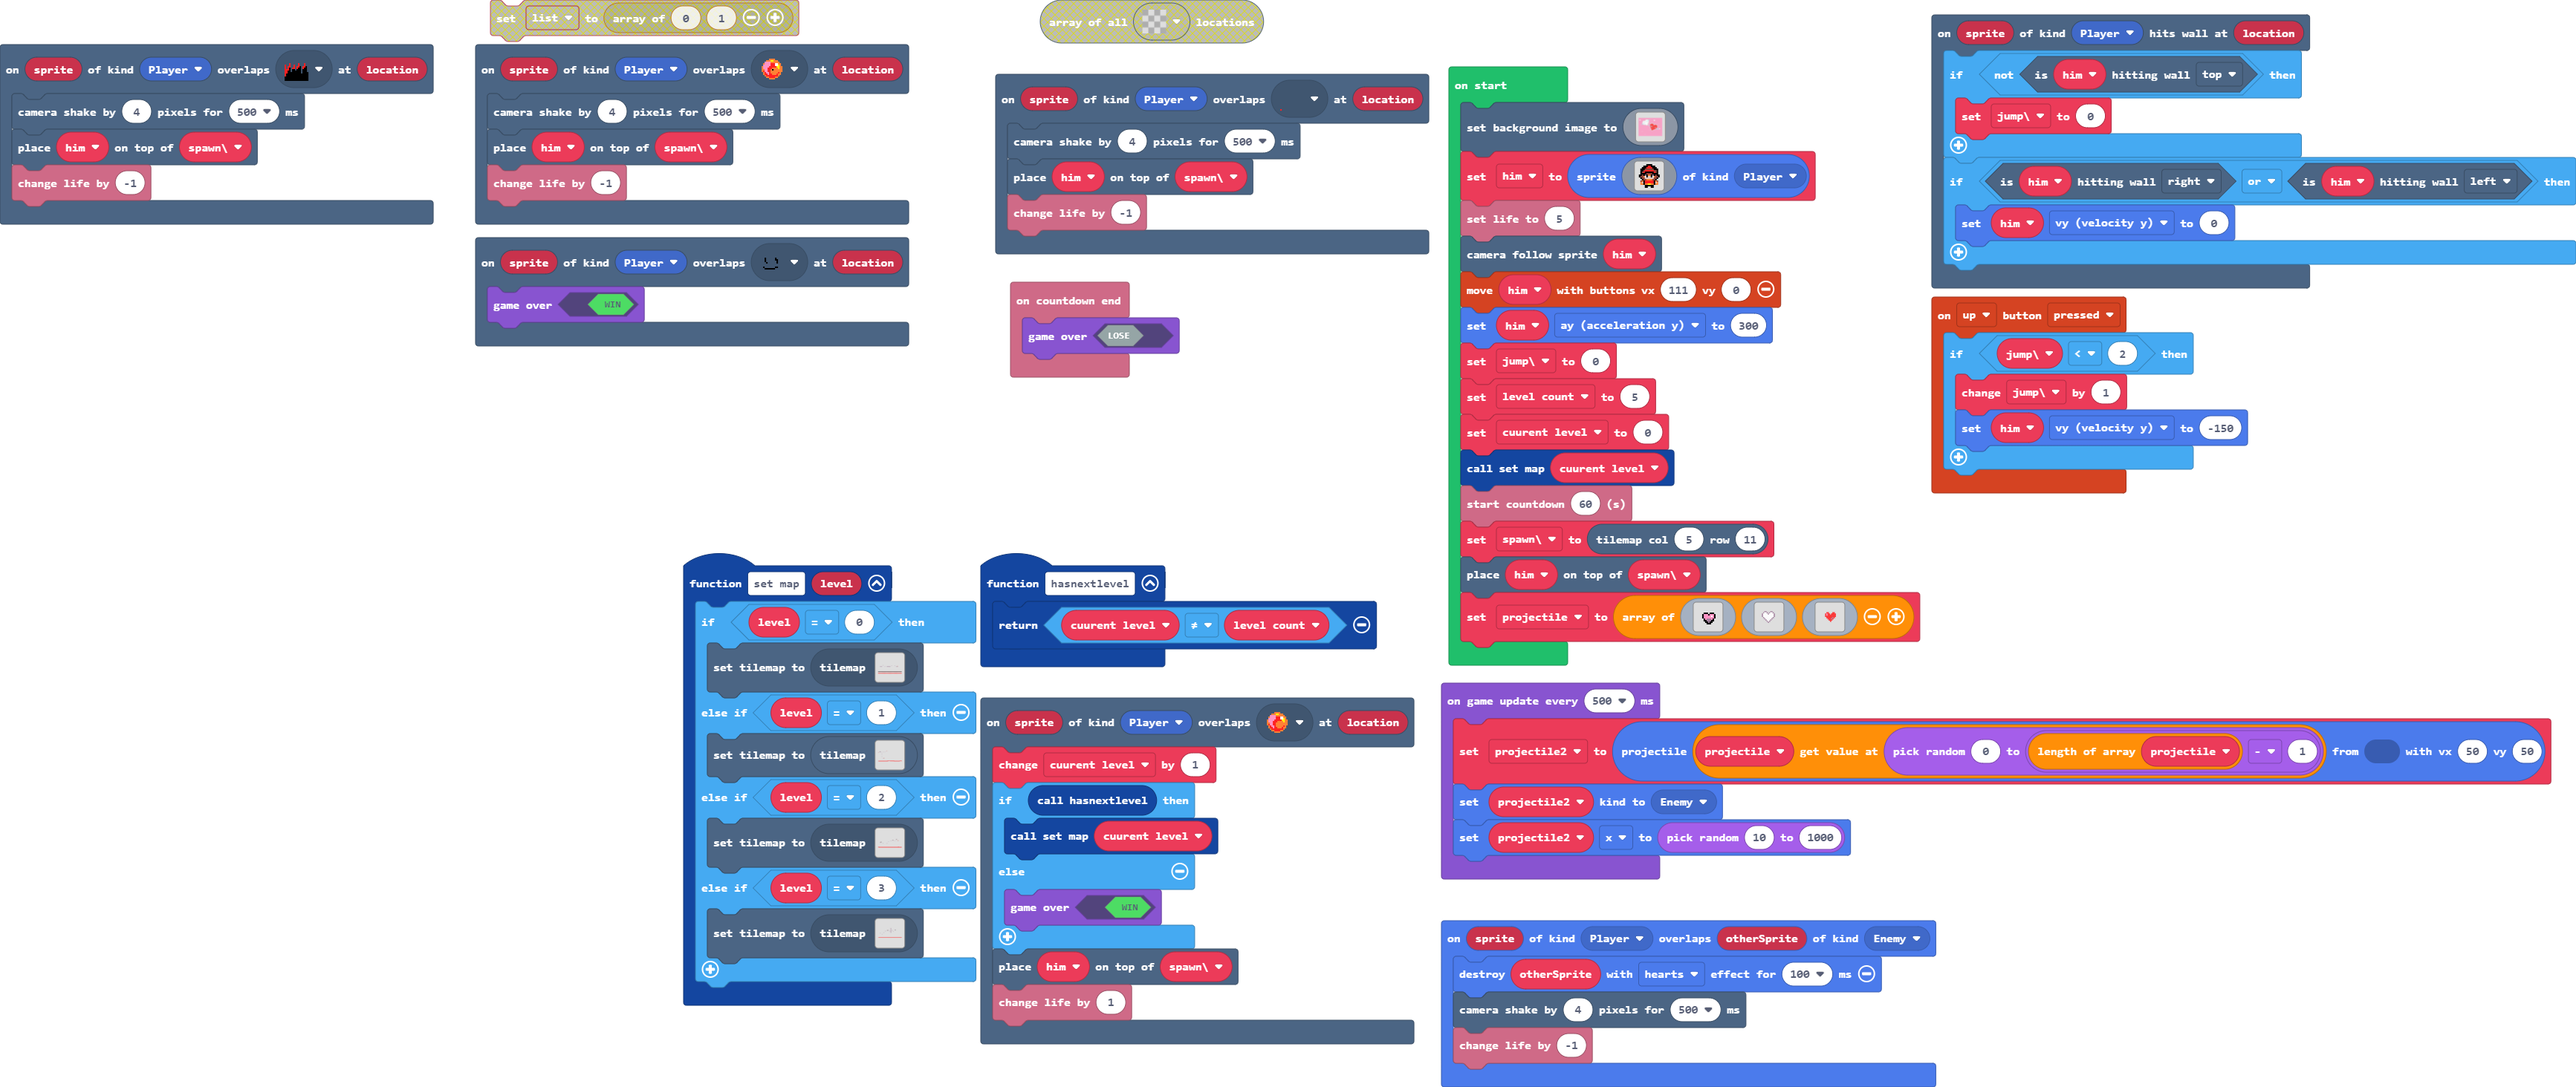
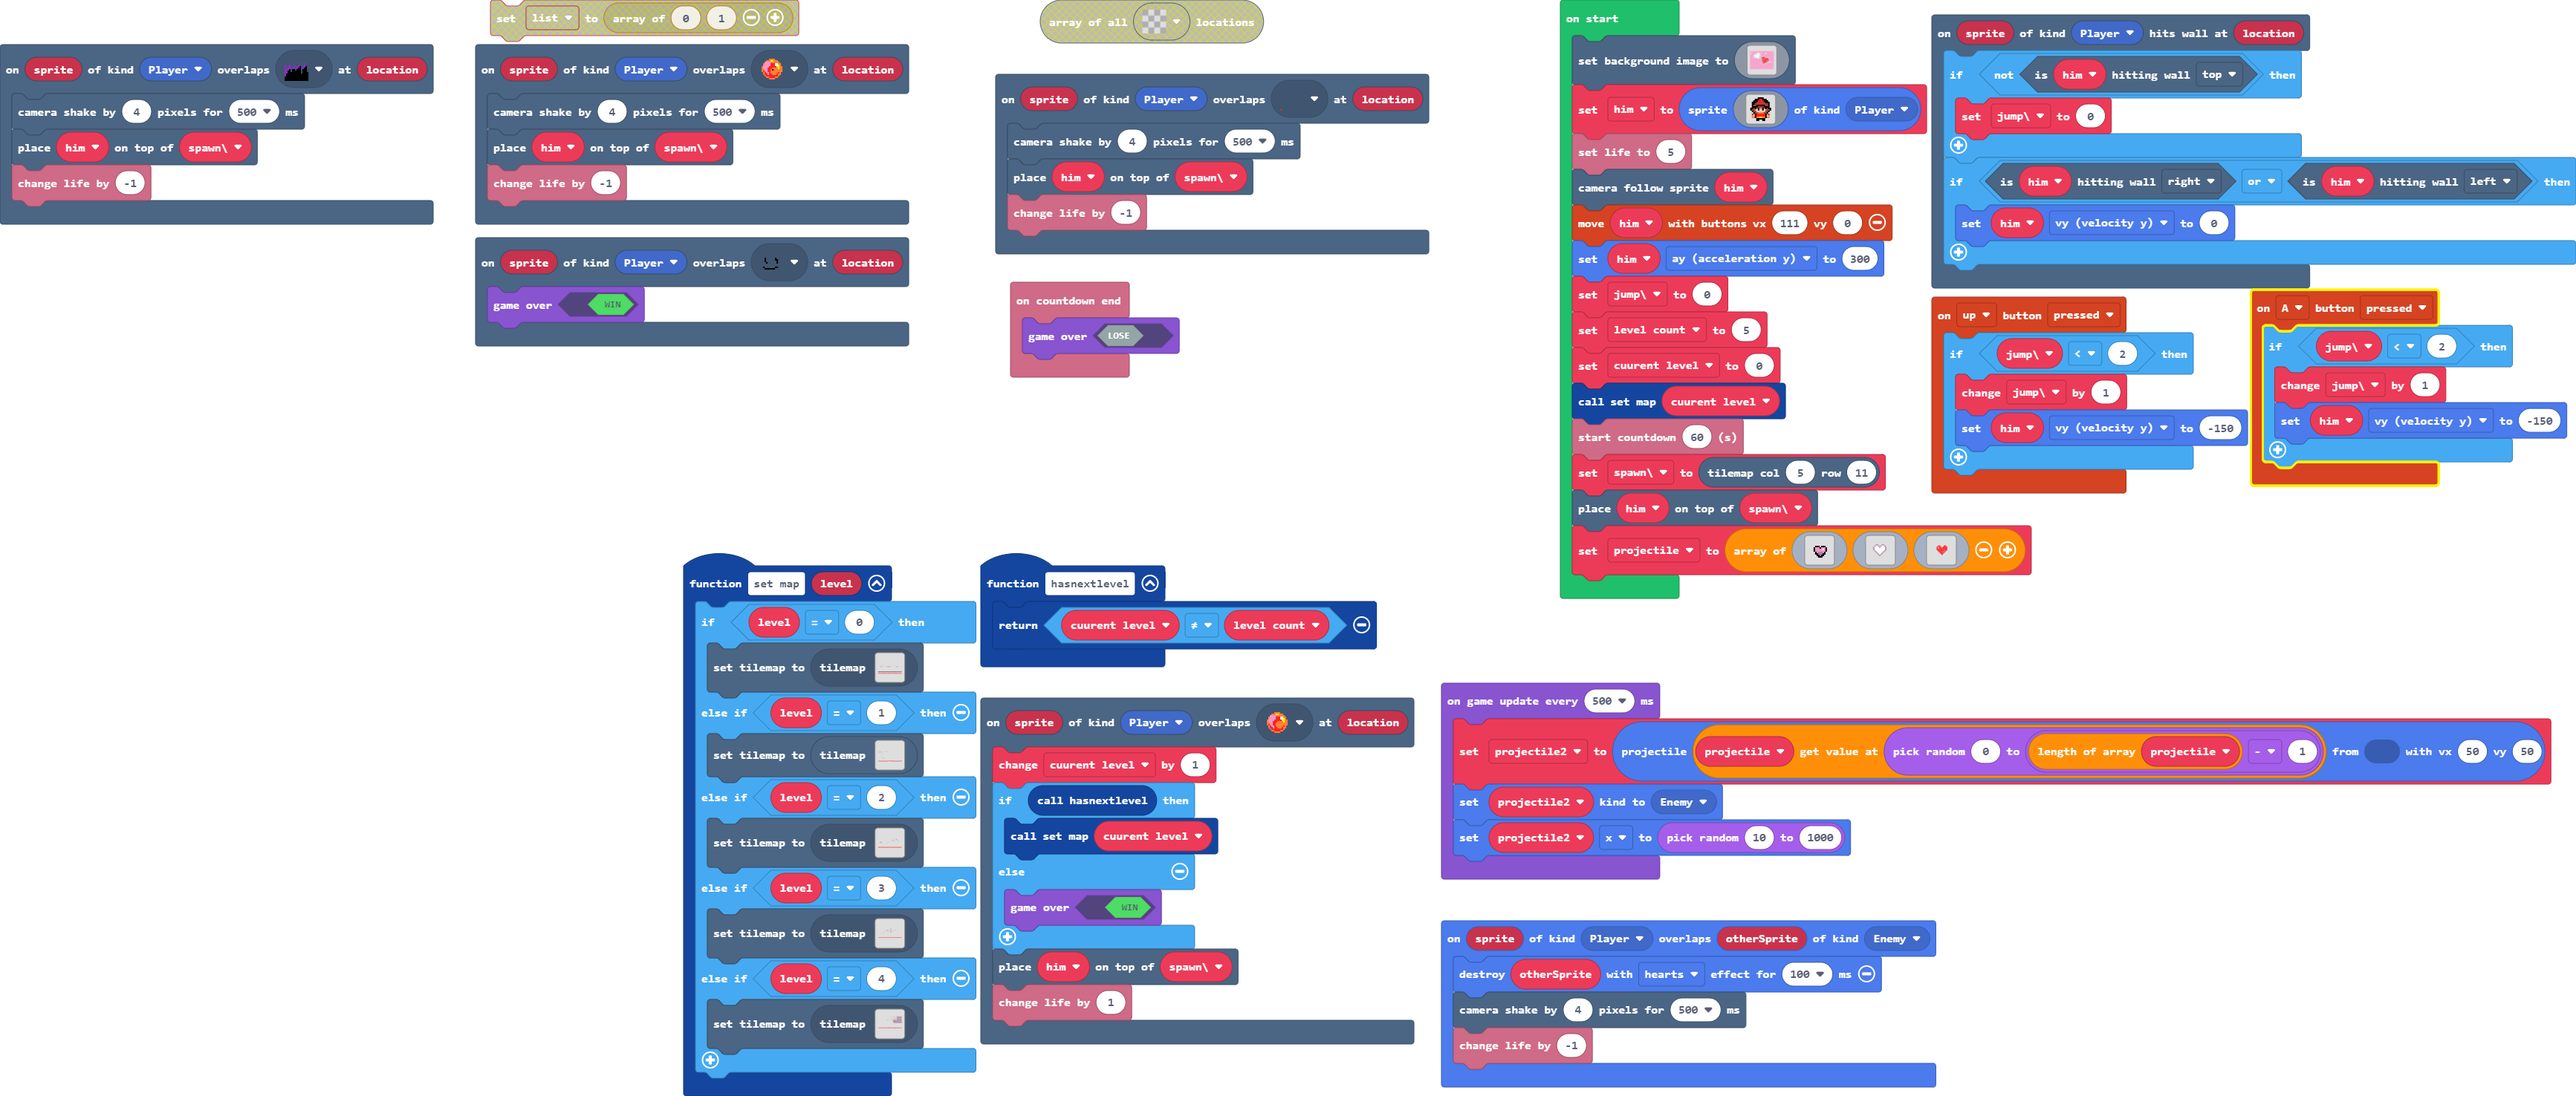
Update pxt.json, main.blocks, main.ts, tilemap.g.jres, tilemap.g.ts

diff --git a/tilemap.g.ts b/tilemap.g.ts
@@ -15,9 +15,11 @@ namespace myTiles {
     //% fixedInstance jres blockIdentity=images._tile
     export const tile7 = image.ofBuffer(hex``);
     //% fixedInstance jres blockIdentity=images._tile
+    export const tile1 = image.ofBuffer(hex``);
+    //% fixedInstance jres blockIdentity=images._tile
     export const tile8 = image.ofBuffer(hex``);
     //% fixedInstance jres blockIdentity=images._tile
-    export const tile1 = image.ofBuffer(hex``);
+    export const tile9 = image.ofBuffer(hex``);
 
     helpers._registerFactory("tilemap", function(name: string) {
         switch(helpers.stringTrim(name)) {
@@ -130,33 +132,6 @@ namespace myTiles {
 ............................................................
 ............................................................
 `, [myTiles.transparency16,sprites.dungeon.floorDark0,myTiles.tile1,myTiles.tile8,sprites.dungeon.collectibleRedCrystal], TileScale.Sixteen);
-            case "level6":
[1 lines of base64/hex data omitted]
-................................2...........................
-................................2...........................
-................................2...........................
-................................2...........................
-............................................................
-................................2..2.......2................
-........................2.......2...........................
-..................2..........2..2...........................
-................................2...........................
-................................2...........................
-................................2...........................
-..............2.................2...........................
-.....2......................................................
-............................................................
-............................................................
-..........2.................................................
-............................................................
-............................................................
-............................................................
-............................................................
-............................................................
-............................................................
-............................................................
-............................................................
-`, [myTiles.transparency16,sprites.dungeon.floorDark0,myTiles.tile1,myTiles.tile7,myTiles.tile8], TileScale.Sixteen);
             case "level1":
[1 lines of base64/hex data omitted]
 ............................................................
@@ -190,6 +165,76 @@ namespace myTiles {
 222222222222222222222222222222222222222222222222222222222222
 222222222222222222222222222222222222222222222222222222222222
 `, [myTiles.transparency16,sprites.dungeon.floorDark0,sprites.dungeon.collectibleRedCrystal,myTiles.tile1,myTiles.tile8], TileScale.Sixteen);
+            case "level6":
[1 lines of base64/hex data omitted]
+................................2...........................
+................................2...........................
+................................2...........................
+................................2...........................
+............................................................
+................................2..2.......2................
+........................2.......2...........................
+..................2..........2..2...........................
+................................2...........................
+................................2...........................
+................................2...........................
+..............2.................2...........................
+.....2......................................................
+............................................................
+............................................................
+..........2.................................................
+............................................................
+............................................................
+............................................................
+............................................................
+............................................................
+............................................................
+............................................................
+............................................................
+`, [myTiles.transparency16,sprites.dungeon.floorDark0,myTiles.tile1,myTiles.tile8,sprites.dungeon.collectibleRedCrystal], TileScale.Sixteen);
+            case "level7":
+            case "level7":return tiles.createTilemap(hex`4600280000000000000000000000000000000000000000000000000000000000000000000000000000040000000000040404040404040404040404040303030303030303030303030303000000000000000000000000000000000000000000000000000000000000000000000000000400000000000400000000000000000000000403030303030303030303030303030000000000000000000000000000000000000000000000000000000000000000000000000004000000000004000404040707070404040004030303030303030303030303030300000000000000000000000000000000000000000000000000000000000000000000000000040000000000040004000000000000000400040303030303030303030303030303000000000000000000000000000000000000000000000000000000000000000000000000000400000000000400040000000000000004000403030303030303030303030303030000000000000000000000000000000000000000000000000000000000000000000000000004000000000004000400000000000100040004030303030303030404040404040300000000000000000000000000000000000000000000000000000000000000000000000000040404040404040004040404040404040400040303030303030304030303030404000000000000000000000000000000000000000000000000000000000000000000000000000000000000000000000000000000000000000703030303030303030303030305030000000000000000000000000000000000000000000000000000000000000000000000000004040400040404000404070704040404000004030303030303030403030303040400000000000000000000000000000000000000000000000000000000000000000000000000040004000000040004030303030303040000040303030303030304020202020403000000000000000000000000000000000000000000000000000000000200000000000000000400040400000400040303030303030400000403030303030303040404040404030000000000000000000000000000000000000004000000000000000004000000000400000000000004040004000403030303030304020204030303030303030303030303030300000000000400000000000000000000000000000000000000000000000000000000000000000000000404040004030303030303040404040303030303030303030303030303000000000000000000000000000000000000000000000000000000000000000000000000000000000000040402040302020303030303030303030303030303030303030303030000000000000000000000000000000000000000000000000000000000000000000000000000000000000004040403030303030303030303030303030303030303030303030300000000000000000000040000000000000000000000000000000000000000000000000000000000000000000000030303030303030303030303030303030303030303030303000000000000000000000000000000000000000000000000000000000000000000000000000000000000000000000303030303030303030303030303030303030303030303030000000000000000000000000000000000000000000000000000000000000000000000000000000000000000000003030303030303030303030303030303030303030303030300000000000000000000000000000000000000000000000000000000000000000000000000000000000000000000030303030303030303030303030303030303030303030303000000000000000000000000000000000000000000000000000000000000000000000000000000000000000000000000000000000000000000000000000000000000000000000000000000000000000000000000000000000000000000000000000000000000000000000000000000000000000000000000000000000000000000000000000000000000000000000000000000000000000000000000000000000000000000000000000000000000000000000000000000000000000000000000000000000000000000000000000000000000000000000000000000000000000000000000000000000000000000000000000000000000000000000000000000000000000000000000000000000000000000000000000000000000000000000000000000000000000000000000000000000000000000000000000000000000000000000000000000000000000000000000000000000000000000000000000000000000000000000000000000000000000000000000000000000000000000000000000000000000000000000000000000000000000000000000000000000000000000000000000000000000000000000000000000000000000000000000000000000000000000000000000000000000000000000000000000000000000000000000000000000000000000000000000000000000000000000000000000000000000000000000000000000000000000000000000000000000000000000000000000000000000000000000000000000000000000000000000000000000000000000000000000000000000000000000000000000000000000000000000000000000000000000000000000000000000000000000000000000000000000000000000000000000000000000000000000000000000000000000000000000000000000000000000000000000000000000000000000000000000000000000000000000000000000000000000000000000000000000000000000000000000000000000000000000000000000000000000000000000000000000000000000000000000000000000000000000000000000000000000000000000000000000000000000000000000000000000000000000000000000000000000000000000000000000000000000000000000000000000000000000000000000000000000000000000000000000000000000000000000000000000000000000000000000000000000000000000000000000000000000000000000000000000000000000000000000000000000000000000000000000000000000000000000606000000000000000000000000000000000000000000000000000000000000000000000000060606060606060606060606060606060606060606060606060606060606060600060606060606060606060606060606060606060606060606060606060606060606060606000000000000000000000000000000000000000000000000000000000000000000000000000000000000000000000000000600000000000000000000000000000000000000000000000000000000000000000000000000000000000000000000000000000000000000000000000000000000000000000000000000000000000000000000000000000000000000000000000000000000000000000000000000000000000000000000000000000000000000000000000000000000000000000000000000000000000000000000000000000000000000000000000000000000000000000000000000000000000000000000000000000000000000000000000000000000000000000000000000000000000000000000000000000000000000000000000000000000000000000000000000000000000000000000000000000000000000000000000000000000000000000000000000000000000000000000000000000000000000000000000000000000000000000000000000000000000000000000000000000000000000000000000000000000000000000000000000000000000000000000`, img`
+.....................................2.....222222222222222............
+.....................................2.....2...........22.............
+.....................................2.....2.222...222.2..............
+.....................................2.....2.2.......2.2..............
+.....................................2.....2.2.......2.2..............
+.....................................2.....2.2.......2.2.......222222.
+.....................................2222222.222222222.222222222....22
+......................................................................
+.....................................222.222.22..2222..222222222....22
+.....................................2.2...2.22..2..2..2.......2....2.
+.....................................2.22..2.22..2..2..2.......222222.
+...................2........2....2......22.2.22..2..2..2..............
+.....2...................................222.22..2..2222..............
+..........................................22.22..2....................
+...........................................22..222....................
+..........2...........................................................
+......................................................................
+......................................................................
+......................................................................
+......................................................................
+......................................................................
+......................................................................
+......................................................................
+......................................................................
+......................................................................
+......................................................................
+......................................................................
+......................................................................
+......................................................................
+......................................................................
+......................................................................
+......................................................................
+......................................................................
+......................................................................
+222222222222222222222222222222222222222222222222..22222222222222222222
+2222222222222222222222222222222222222222222222222222222222222222222222
+2222222222222222222222222222222222222222222222222222222222222222222222
+2222222222222222222222222222222222222222222222222222222222222222222222
+2222222222222222222222222222222222222222222222222222222222222222222222
+....2222222222222222222222222.....222222222222222222222222222222222222
+`, [myTiles.transparency16,myTiles.tile2,myTiles.tile8,sprites.dungeon.floorDark0,sprites.dungeon.floorLight0,myTiles.tile7,myTiles.tile1,myTiles.tile9], TileScale.Sixteen);
         }
         return null;
     })
@@ -209,10 +254,12 @@ namespace myTiles {
             case "tile6":return tile6;
             case "myTile5":
             case "tile7":return tile7;
-            case "myTile6":
-            case "tile8":return tile8;
             case "myTile":
             case "tile1":return tile1;
+            case "myTile6":
+            case "tile8":return tile8;
+            case "myTile7":
+            case "tile9":return tile9;
         }
         return null;
     })

diff --git a/main.ts b/main.ts
@@ -12,6 +12,8 @@ function set_map (level: number) {
         tiles.setCurrentTilemap(tilemap`level3`)
     } else if (level == 3) {
         tiles.setCurrentTilemap(tilemap`level6`)
+    } else if (level == 4) {
+        tiles.setCurrentTilemap(tilemap`level7`)
     }
 }
 scene.onHitWall(SpriteKind.Player, function (sprite, location) {
@@ -37,6 +39,12 @@ scene.onOverlapTile(SpriteKind.Player, assets.tile`myTile`, function (sprite, lo
     scene.cameraShake(4, 500)
     tiles.placeOnTile(him, spawn)
     info.changeLifeBy(-1)
+})
+controller.A.onEvent(ControllerButtonEvent.Pressed, function () {
+    if (jump < 2) {
+        jump += 1
+        him.vy = -150
+    }
 })
 function hasnextlevel () {
     return cuurent_level != level_count
